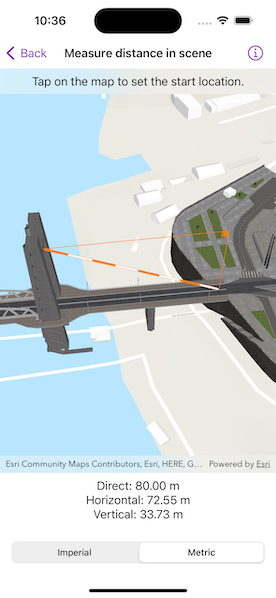
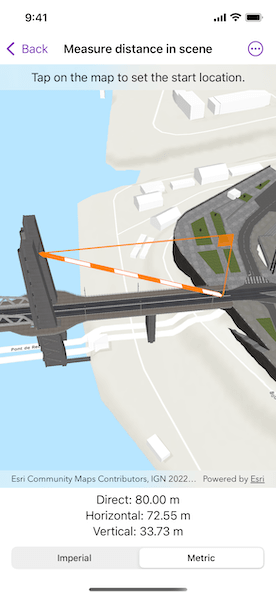
Move picker into segmented control.

diff --git a/Shared/Samples/Measure distance in scene/MeasureDistanceInSceneView.swift b/Shared/Samples/Measure distance in scene/MeasureDistanceInSceneView.swift
@@ -89,16 +89,18 @@ struct MeasureDistanceInSceneView: View {
             Text("Direct: \(directDistanceText)")
             Text("Horizontal: \(horizontalDistanceText)")
             Text("Vertical: \(verticalDistanceText)")
-            
-            // Unit system picker.
-            Picker("", selection: $unitSystemSelection) {
-                Text("Imperial").tag(UnitSystem.imperial)
-                Text("Metric").tag(UnitSystem.metric)
-            }
-            .pickerStyle(.segmented)
-            .padding()
-            .onChange(of: unitSystemSelection) {
-                model.locationDistanceMeasurement.unitSystem = unitSystemSelection
+        }
+        .toolbar {
+            ToolbarItem(placement: .bottomBar) {
+                // Unit system picker.
+                Picker("", selection: $unitSystemSelection) {
+                    Text("Imperial").tag(UnitSystem.imperial)
+                    Text("Metric").tag(UnitSystem.metric)
+                }
+                .pickerStyle(.segmented)
+                .onChange(of: unitSystemSelection) {
+                    model.locationDistanceMeasurement.unitSystem = unitSystemSelection
+                }
             }
         }
     }
